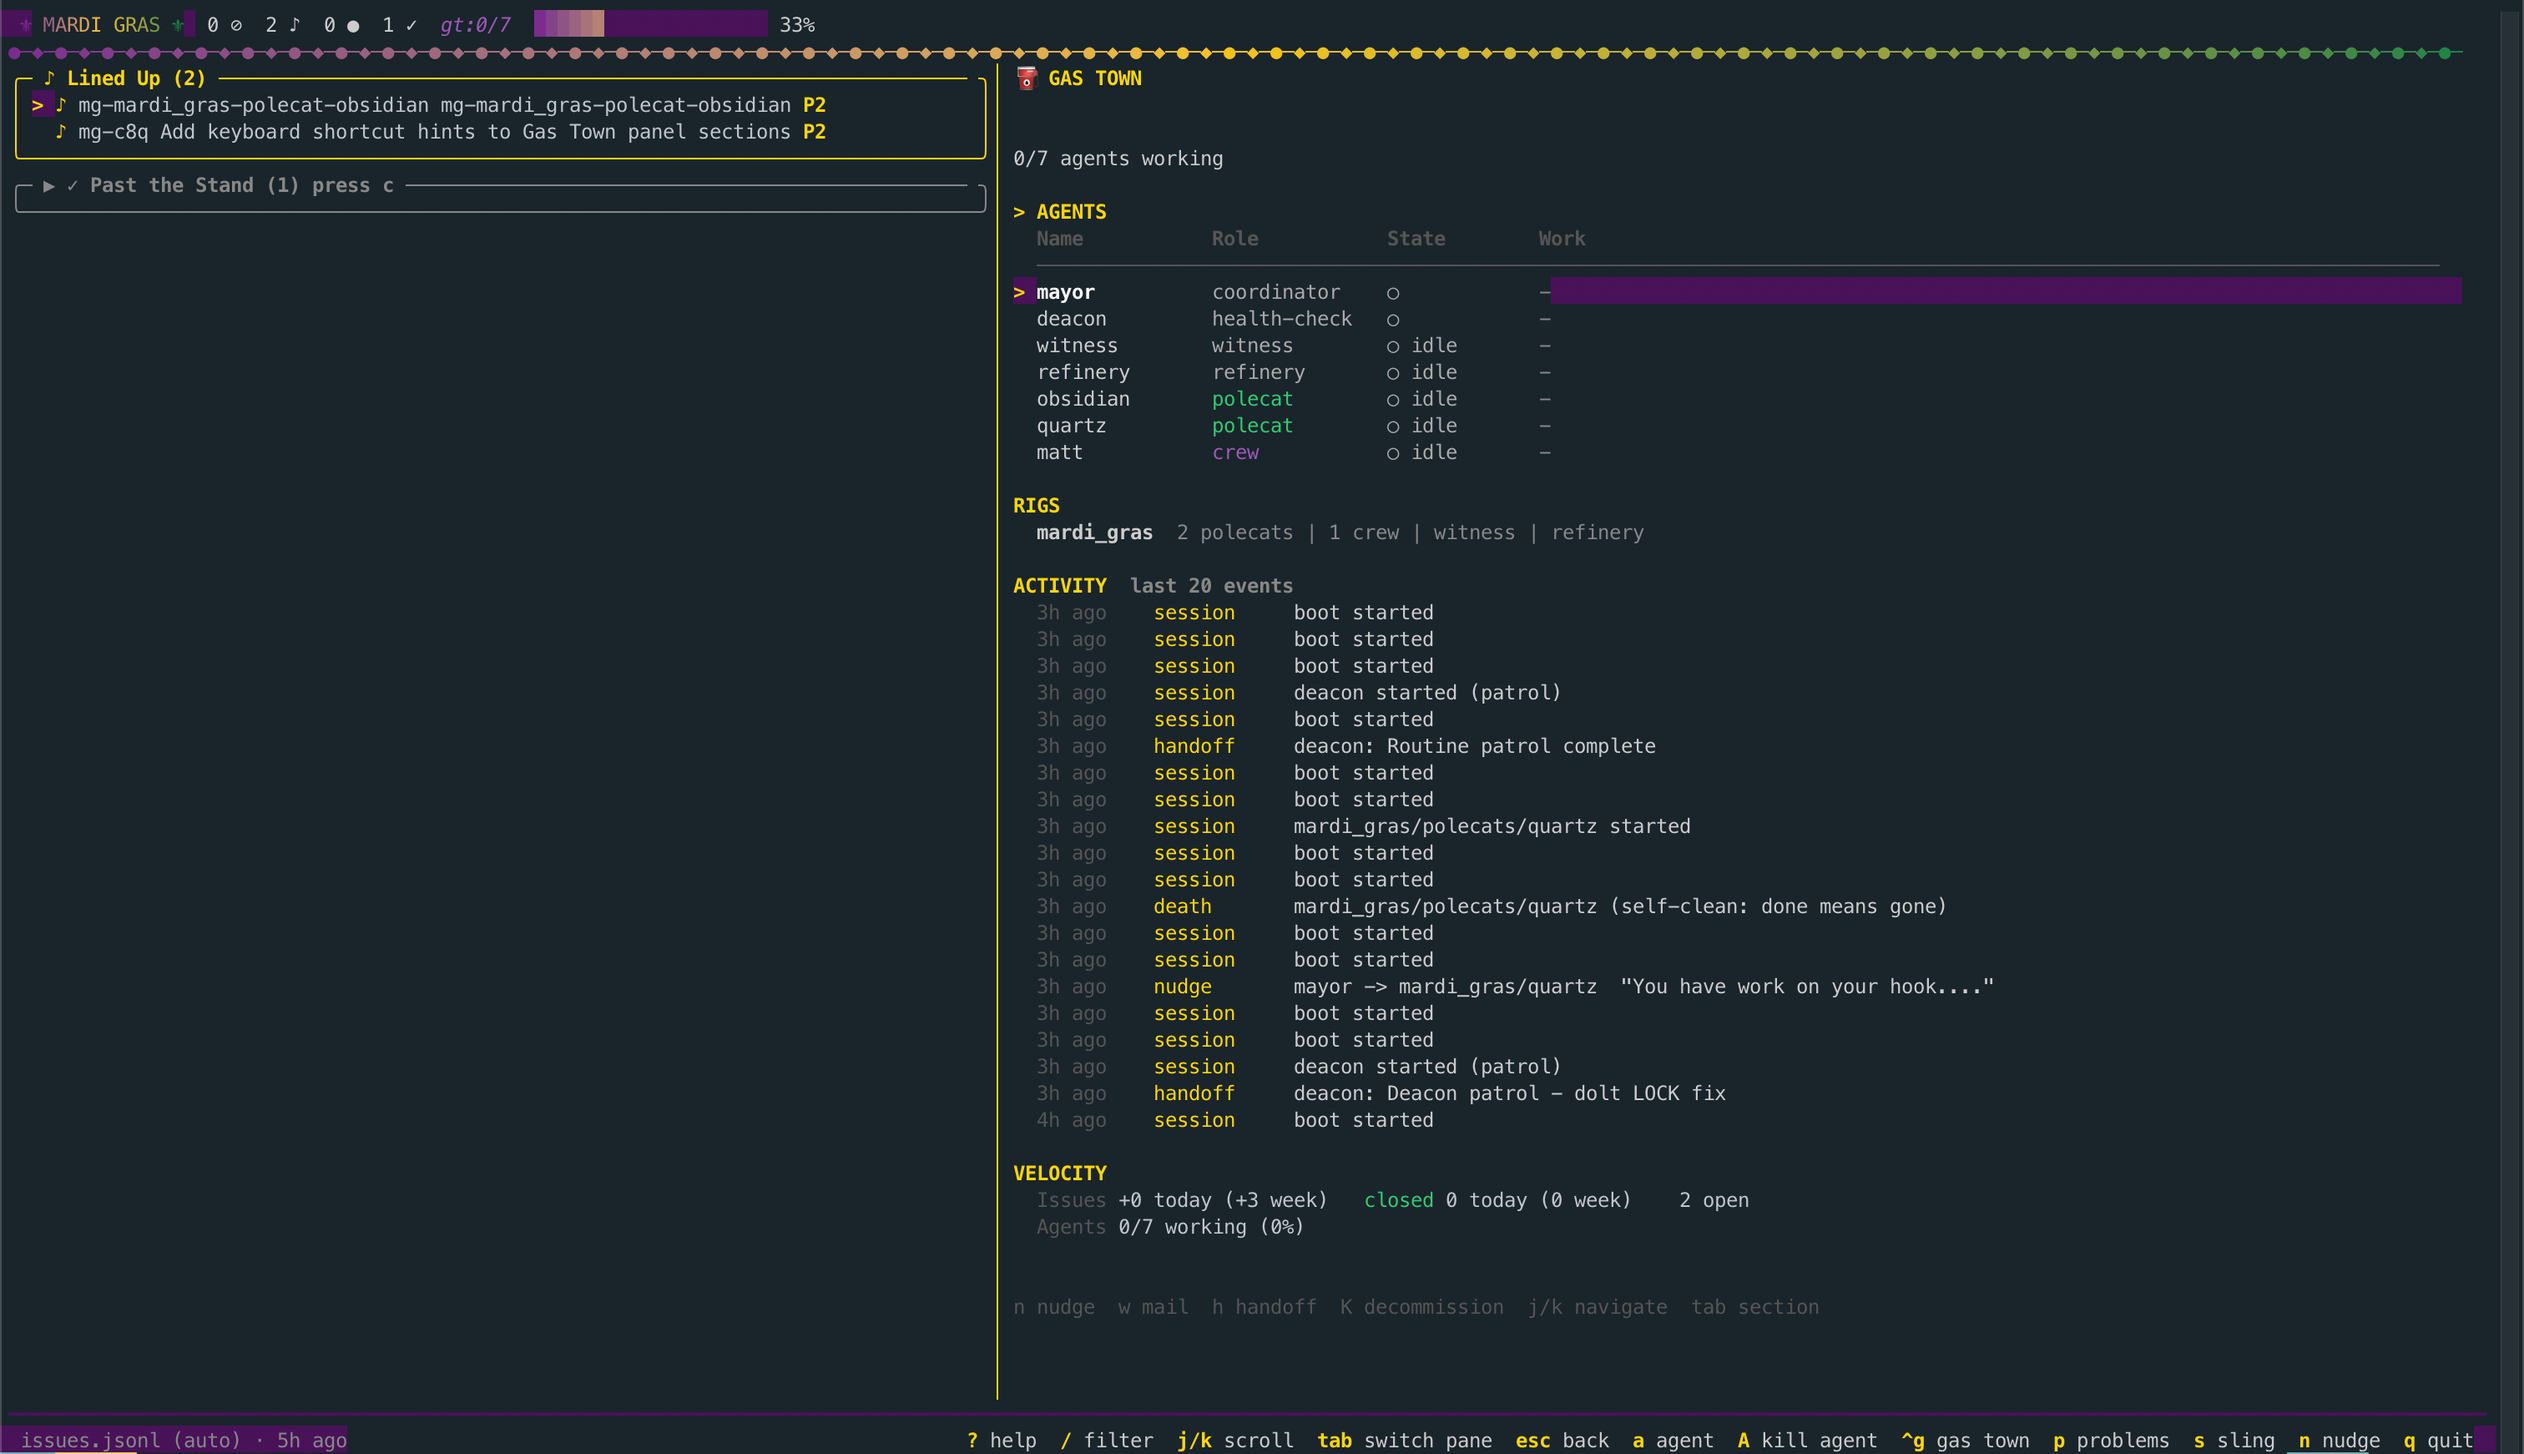
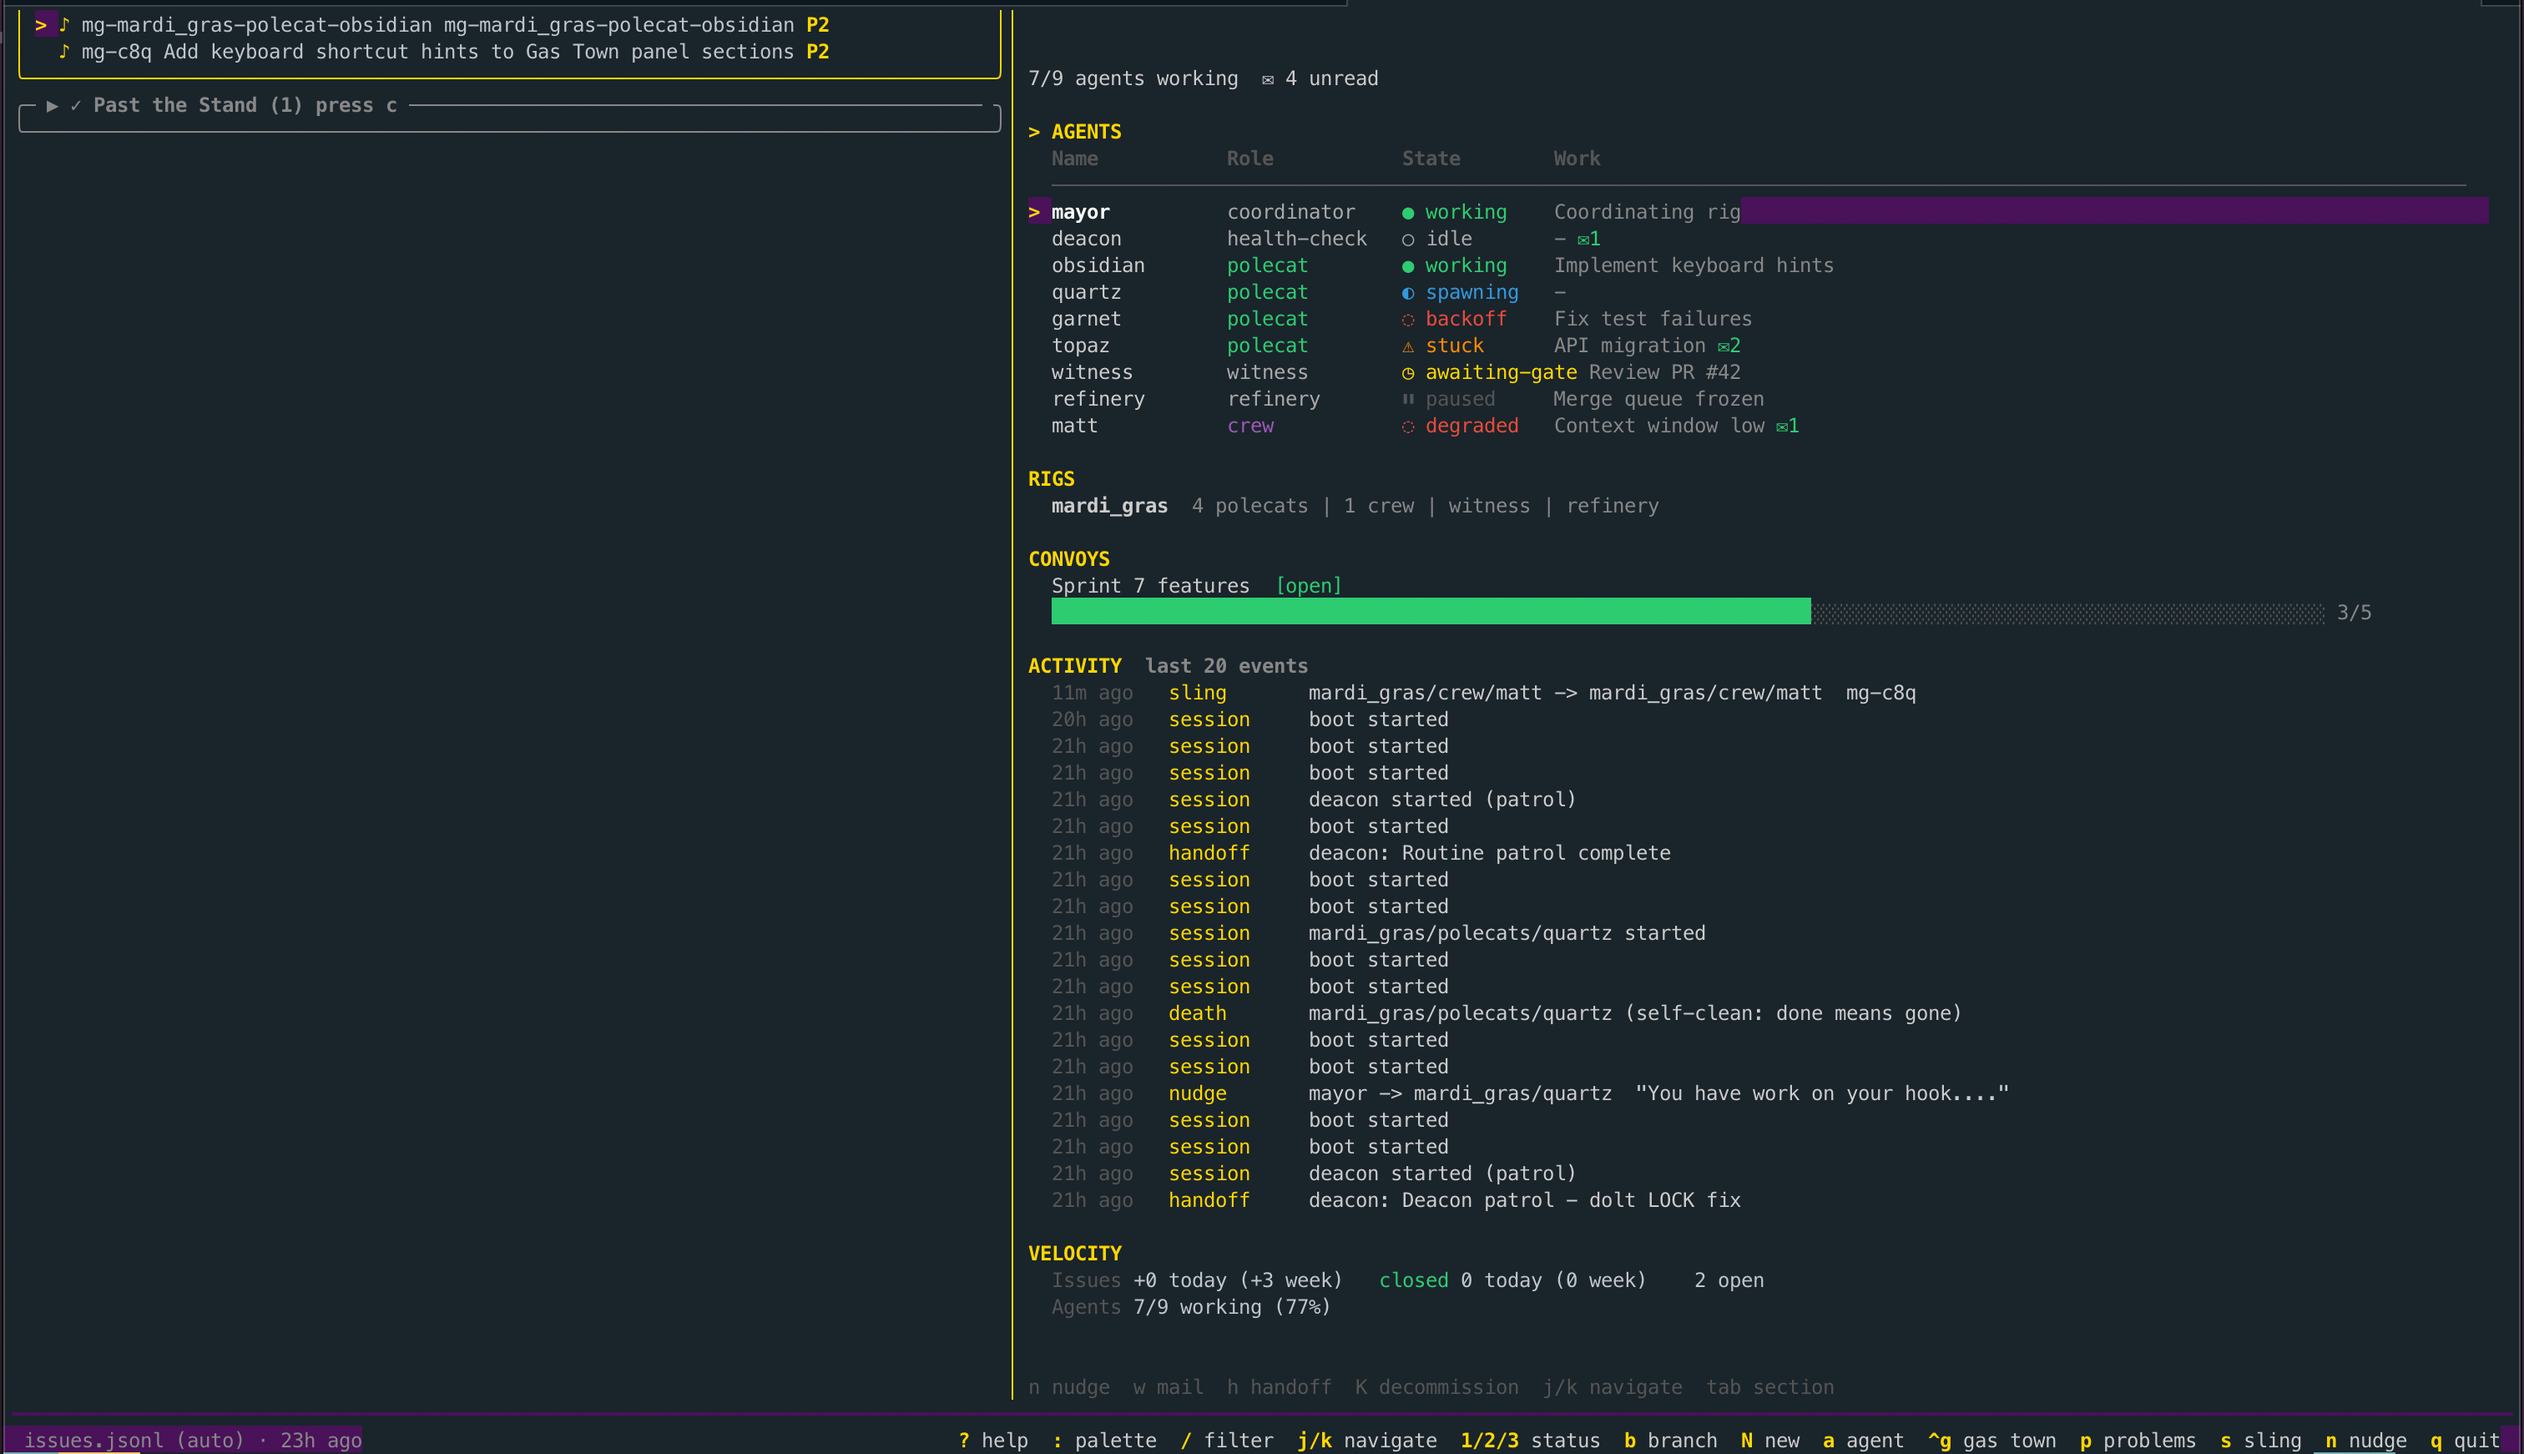
feat: render 7+ distinct agent states in Gas Town panel
Expand the Gas Town panel from 3 states (working/idle/backoff) to render
all agent lifecycle states with unique symbols, colors, and badges:
stuck, spawning, awaiting-gate, paused, muted, degraded. Detail panel
now uses StateBadge() for consistent state rendering.

diff --git a/internal/ui/theme_test.go b/internal/ui/theme_test.go
@@ -57,6 +57,64 @@ func TestIssueTypeColor(t *testing.T) {
 	}
 }
 
+func TestAgentStateColor(t *testing.T) {
+	tests := []struct {
+		name  string
+		state string
+		want  lipgloss.Color
+	}{
+		{"working", "working", StateWorking},
+		{"spawning", "spawning", StateSpawn},
+		{"idle", "idle", StateIdle},
+		{"backoff", "backoff", StateBackoff},
+		{"degraded maps to backoff", "degraded", StateBackoff},
+		{"stuck", "stuck", StateStuck},
+		{"awaiting-gate", "awaiting-gate", StateGate},
+		{"paused", "paused", Dim},
+		{"muted", "muted", Dim},
+		{"unknown falls back to idle", "unknown", StateIdle},
+		{"empty falls back to idle", "", StateIdle},
+	}
+
+	for _, tt := range tests {
+		t.Run(tt.name, func(t *testing.T) {
+			got := AgentStateColor(tt.state)
+			if got != tt.want {
+				t.Errorf("AgentStateColor(%q) = %v, want %v", tt.state, got, tt.want)
+			}
+		})
+	}
+}
+
+func TestAgentStateColorDistinctCategories(t *testing.T) {
+	// Each state category should map to a distinct color
+	colors := map[string]lipgloss.Color{
+		"working":       AgentStateColor("working"),
+		"spawning":      AgentStateColor("spawning"),
+		"idle":          AgentStateColor("idle"),
+		"backoff":       AgentStateColor("backoff"),
+		"stuck":         AgentStateColor("stuck"),
+		"awaiting-gate": AgentStateColor("awaiting-gate"),
+		"paused":        AgentStateColor("paused"),
+	}
+
+	// Verify distinct colors across categories (some share intentionally)
+	pairs := [][2]string{
+		{"working", "idle"},
+		{"working", "backoff"},
+		{"working", "stuck"},
+		{"idle", "backoff"},
+		{"idle", "stuck"},
+		{"stuck", "backoff"},
+		{"spawning", "idle"},
+	}
+	for _, pair := range pairs {
+		if colors[pair[0]] == colors[pair[1]] {
+			t.Errorf("AgentStateColor(%q) == AgentStateColor(%q), should be distinct", pair[0], pair[1])
+		}
+	}
+}
+
 func TestApplyMardiGrasGradientEmpty(t *testing.T) {
 	result := ApplyMardiGrasGradient("")
 	if result != "" {

diff --git a/internal/ui/theme.go b/internal/ui/theme.go
@@ -63,6 +63,9 @@ var (
 	StateWorking = BrightGreen
 	StateIdle    = Silver
 	StateBackoff = lipgloss.Color("#E74C3C")
+	StateStuck   = lipgloss.Color("#FF8C00") // Amber — agent requesting help
+	StateSpawn   = lipgloss.Color("#3498DB") // Cyan — session starting
+	StateGate    = BrightGold                // Waiting on external trigger
 
 	// HOP quality colors
 	QualityExcellent = BrightGold   // 0.9+
@@ -112,8 +115,16 @@ func AgentStateColor(state string) lipgloss.Color {
 	switch state {
 	case "working":
 		return StateWorking
-	case "backoff":
+	case "spawning":
+		return StateSpawn
+	case "backoff", "degraded":
 		return StateBackoff
+	case "stuck":
+		return StateStuck
+	case "awaiting-gate":
+		return StateGate
+	case "paused", "muted":
+		return Dim
 	default:
 		return StateIdle
 	}

diff --git a/internal/views/gastown.go b/internal/views/gastown.go
@@ -583,8 +583,16 @@ func (g *GasTown) renderAgentRoster(width int) string {
 		switch a.State {
 		case "working":
 			stateSym = ui.SymWorking
-		case "backoff":
+		case "spawning":
+			stateSym = ui.SymSpawning
+		case "backoff", "degraded":
 			stateSym = ui.SymBackoff
+		case "stuck":
+			stateSym = ui.SymStuck
+		case "awaiting-gate":
+			stateSym = ui.SymGate
+		case "paused", "muted":
+			stateSym = ui.SymPaused
 		}
 		stateStyle := lipgloss.NewStyle().Foreground(ui.AgentStateColor(a.State))
 		stateStr := stateStyle.Render(fmt.Sprintf("%-*s", stateW, stateSym+" "+a.State))

diff --git a/internal/ui/symbols.go b/internal/ui/symbols.go
@@ -63,6 +63,10 @@ const (
 	SymIdle          = "○"
 	SymWorking       = "●"
 	SymBackoff       = "◌"
+	SymStuck         = "⚠"  // alias of SymWarning — agent requesting help
+	SymSpawning      = "◐"  // half-filled — session starting
+	SymGate          = "◷"  // alias of SymDueDate — waiting on gate
+	SymPaused        = "⏸"  // alias of SymDeferred — intentionally suspended
 	SymProgress      = "█"
 	SymProgressEmpty = "░"
 	SymTown          = "⛽"

diff --git a/internal/ui/styles.go b/internal/ui/styles.go
@@ -295,8 +295,16 @@ func StateBadge(state string) string {
 	switch state {
 	case "working":
 		sym = SymWorking
-	case "backoff":
+	case "spawning":
+		sym = SymSpawning
+	case "backoff", "degraded":
 		sym = SymBackoff
+	case "stuck":
+		sym = SymStuck
+	case "awaiting-gate":
+		sym = SymGate
+	case "paused", "muted":
+		sym = SymPaused
 	}
 	return lipgloss.NewStyle().
 		Foreground(AgentStateColor(state)).

diff --git a/internal/views/detail.go b/internal/views/detail.go
@@ -202,7 +202,7 @@ func (d *Detail) renderContent() string {
 						fmt.Sprintf("%s %s (%s)", ui.SymAgent, a.Name, a.Role),
 					)))
 					if a.State != "" {
-						lines = append(lines, d.row("State:", ui.DetailValue.Render(a.State)))
+						lines = append(lines, d.row("State:", ui.StateBadge(a.State)))
 					}
 				} else {
 					lines = append(lines, d.row("Agent:", agentStyle.Render(
